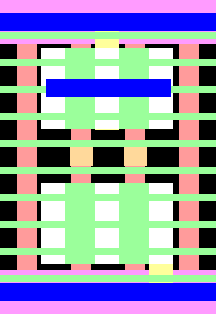
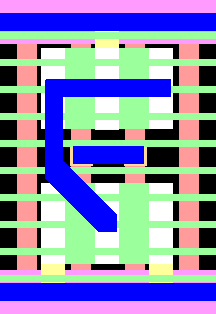
Algoritmo de roteamento funcionando, realiza os roteamentos necessário, porém alguns estão em diagonal (?) e outros apresentam erro de SIG ADDRESS - V4

Changed region(s): [[0.1944, 0.258, 0.6667, 0.7452], [0.1667, 0.8312, 0.3056, 0.9172]]

diff --git a/view.cpp b/view.cpp
@@ -235,12 +235,13 @@ int renderizeMatrix(vector<int> p_pos, vector<Net> netlist_p, vector<int> n_pos,
                 }
                 point2 temp((ligcontxcoord+(ligContWidth/2)), (ligcontycoord+(ligContHeight/2)));
                 mSignal[new_ppos[it]].instances.push_back(temp);
+                mSignal[new_ppos[it]].visited.push_back(0);
                 ligcontxcoord = ligcontxcoord + 54;
                 sxcoord = sxcoord + 25;
             } else if((global[new_ppos[it]].name != global[new_ppos[it-1]].name) && (p_pos_types[it] != p_pos_types[it-1]) && (p_pos_types[it] == ACTIVE) && (it != 0)){
-                point2 temp((sxcoord+(actWidth/2)), (sycoord+(sHeigth/2)));
-                mSignal[new_ppos[it]].instances.push_back(temp);
-                
+//                point2 temp((sxcoord+(actWidth/2)), (sycoord+(sHeigth/2)));
+//                mSignal[new_ppos[it]].instances.push_back(temp);
+//                mSignal[new_ppos[it]].visited.push_back(0);
                 if(global[new_ppos[it]].name == "VDD") {
                     cout << "teste1\n";
                     for(int it2=sxcoord;it2<sxcoord+actWidth;it2++){
@@ -255,11 +256,15 @@ int renderizeMatrix(vector<int> p_pos, vector<Net> netlist_p, vector<int> n_pos,
                             SIGNAL[it3][it2] = new_ppos[it]+1;
                         }
                     }
+                point2 temp((sxcoord+(actWidth/2)), (sycoord+(sHeigth/2)));
+                mSignal[new_ppos[it]].instances.push_back(temp);
+                mSignal[new_ppos[it]].visited.push_back(0);
                 }
                 sxcoord = sxcoord + 29;
             } else if((global[new_ppos[it]].name != global[new_ppos[it-1]].name) && (p_pos_types[it] == p_pos_types[it-1]) && (it != 0)){
-                point2 temp((sxcoord+(actWidth/2)), (sycoord+(sHeigth/2)));
-                mSignal[new_ppos[it]].instances.push_back(temp);
+//                point2 temp((sxcoord+(actWidth/2)), (sycoord+(sHeigth/2)));
+//                mSignal[new_ppos[it]].instances.push_back(temp);
+//                mSignal[new_ppos[it]].visited.push_back(0);
                 sxcoord = sxcoord+79;
                 if(global[new_ppos[it]].name == "VDD") {
                     for(int it2=sxcoord;it2<sxcoord+actWidth;it2++){
@@ -273,11 +278,15 @@ int renderizeMatrix(vector<int> p_pos, vector<Net> netlist_p, vector<int> n_pos,
                             SIGNAL[it3][it2] = new_ppos[it]+1;
                         }
                     }
+                point2 temp((sxcoord+(actWidth/2)), (sycoord+(sHeigth/2)));
+                mSignal[new_ppos[it]].instances.push_back(temp);
+                mSignal[new_ppos[it]].visited.push_back(0);
                 }
                 sxcoord = sxcoord + 29;
             } else if(it == 0){
-                point2 temp((sxcoord+(actWidth/2)), (sycoord+(sHeigth/2)));
-                mSignal[new_ppos[it]].instances.push_back(temp);
+//                point2 temp((sxcoord+(actWidth/2)), (sycoord+(sHeigth/2)));
+//                mSignal[new_ppos[it]].instances.push_back(temp);
+//                mSignal[new_ppos[it]].visited.push_back(0);
                 if(global[new_ppos[it]].name == "VDD") {
                     for(int it2=sxcoord;it2<sxcoord+actWidth;it2++){
                         for(int it3=salimcoord; it3<salimcoord+salimHeight;it3++){
@@ -290,6 +299,9 @@ int renderizeMatrix(vector<int> p_pos, vector<Net> netlist_p, vector<int> n_pos,
                             SIGNAL[it3][it2] = new_ppos[it]+1;
                         }
                     }
+                point2 temp((sxcoord+(actWidth/2)), (sycoord+(sHeigth/2)));
+                mSignal[new_ppos[it]].instances.push_back(temp);
+                mSignal[new_ppos[it]].visited.push_back(0);
                 }
                 sxcoord = sxcoord + 29;
             }
@@ -313,13 +325,18 @@ int renderizeMatrix(vector<int> p_pos, vector<Net> netlist_p, vector<int> n_pos,
                             SIGNAL[it3][it2] = new_npos[it]+1;
                         }
                     }
-                }
                 point2 temp((sxcoord+(actWidth/2)), (sycoord+(sHeigth/2)));
                 mSignal[new_npos[it]].instances.push_back(temp);
+                mSignal[new_ppos[it]].visited.push_back(0);
+                }
+//                point2 temp((sxcoord+(actWidth/2)), (sycoord+(sHeigth/2)));
+//                mSignal[new_npos[it]].instances.push_back(temp);
+//                mSignal[new_ppos[it]].visited.push_back(0);
                 sxcoord = sxcoord + 54;
             } else if((global[new_npos[it]].name != global[new_npos[it-1]].name) && (n_pos_types[it] == n_pos_types[it-1])/*&& (it != 0)*/){
-                point2 temp((sxcoord+(actWidth/2)), (sycoord+(sHeigth/2)));
-                mSignal[new_npos[it]].instances.push_back(temp);
+//                point2 temp((sxcoord+(actWidth/2)), (sycoord+(sHeigth/2)));
+//                mSignal[new_npos[it]].instances.push_back(temp);
+//                mSignal[new_ppos[it]].visited.push_back(0);
                 cout << it-1 << " " << it << "\n";
                 sxcoord = sxcoord+54;
                 if(global[new_npos[it]].name == "GND") {
@@ -334,6 +351,10 @@ int renderizeMatrix(vector<int> p_pos, vector<Net> netlist_p, vector<int> n_pos,
                             SIGNAL[it3][it2] = new_npos[it]+1;
                         }
                     }
+                point2 temp((sxcoord+(actWidth/2)), (sycoord+(sHeigth/2)));
+                mSignal[new_npos[it]].instances.push_back(temp);
+                mSignal[new_ppos[it]].visited.push_back(0);
+    
                 sxcoord = sxcoord + 54;
                 }
             }
@@ -590,149 +611,10 @@ int renderizeMatrix(vector<int> p_pos, vector<Net> netlist_p, vector<int> n_pos,
             cout << "\n";
         }   
 
+
     
     
-    
-    
-    
-    
-    
-    
-    
-    
-    
-    
-    
-    
-    
-    
-//    Mat img(height, width, CV_8UC4, Scalar(0,0,0,255));
-//    
-//
-//    
-//    if (img.empty()) 
-//    {
-//        cout << "\n Image not created. You"
-//                     " have done something wrong. \n";
-//        return -1;    // Unsuccessful.
-//    }
-//
-////    int     GCUT[height][width]; ok
-////    int     M1[height][width]; ok
-////    int     LIG[height][width]; ok
-////    int     FIN[height][width]; ok
-////    int     CGATE[height][width]; ok
-////    int     LISD[height][width]; ok
-////    int     SDT[height][width]; ok
-////    int     CACTIVE[height][width];
-////    int    SIGNAL[height][width];
-//    
-//    for(int it=0; it<height; it++){
-//        for(int it2=0; it2<width; it2++){
-//            if(CGATE[it][it2] == 1){
-//                img.at<Vec4b>(it, it2) = Vec4b(0, 0, 255, 100);                
-//            }
-//            if(GCUT[it][it2] == 1){
-//                img.at<Vec4b>(it, it2) = Vec4b(255, 0, 255, 100);                
-//            }
-//            if(LIG[it][it2] == 1){
-//                img.at<Vec4b>(it, it2) = Vec4b(0, 157, 255, 100);                
-//            }
-//            if(M1[it][it2] == 1){
-//                img.at<Vec4b>(it, it2) = Vec4b(255, 0, 0, 100);                
-//            } 
-//            if(CACTIVE[it][it2] == 1){
-//                img.at<Vec4b>(it, it2) = Vec4b(0, 255, 0, 100);                
-//            } 
-//            if(LISD[it][it2] == 1){
-//                img.at<Vec4b>(it, it2) = Vec4b(0, 255, 255, 100);                
-//            }  
-//            if(SDT[it][it2] == 1){
-//                img.at<Vec4b>(it, it2) = Vec4b(255, 255, 255, 50);                
-//            }
-//            if(FIN[it][it2] == 1){
-//                img.at<Vec4b>(it, it2) = Vec4b(0, 255, 0, 100);                
-//            }           
-//        }
-//    }
-//    
-//    vector <Mat> dst;
-//    Mat gate(height, width, CV_8UC4, Scalar(0,0,0,0));
-//    Mat gcut(height, width, CV_8UC4, Scalar(0,0,0,0));
-//    Mat lig(height, width, CV_8UC4, Scalar(0,0,0,0));
-//    Mat m1(height, width, CV_8UC4, Scalar(0,0,0,0));
-//    Mat active(height, width, CV_8UC4, Scalar(0,0,0,0));
-//    Mat lisd(height, width, CV_8UC4, Scalar(0,0,0,0));
-//    Mat sdt(height, width, CV_8UC4, Scalar(0,0,0,0));
-//    Mat cfin(height, width, CV_8UC4, Scalar(0,0,0,0));
-//    
-//    for(int it=0; it<height; it++){
-//        for(int it2=0; it2<width; it2++){
-//            if(CGATE[it][it2] == 1){
-//                gate.at<Vec4b>(it, it2) = Vec4b(0, 0, 255, 255);                
-//            }
-//            if(GCUT[it][it2] == 1){
-//                gcut.at<Vec4b>(it, it2) = Vec4b(255, 0, 255, 255);                
-//            }
-//            if(LIG[it][it2] == 1){
-//                lig.at<Vec4b>(it, it2) = Vec4b(0, 157, 255, 255);                
-//            }
-//            if(M1[it][it2] == 1){
-//                m1.at<Vec4b>(it, it2) = Vec4b(255, 0, 0,255);                
-//            } 
-//            if(CACTIVE[it][it2] == 1){
-//                active.at<Vec4b>(it, it2) = Vec4b(0, 255, 0,255);                
-//            } 
-//            if(LISD[it][it2] == 1){
-//                lisd.at<Vec4b>(it, it2) = Vec4b(0, 255, 255,255);                
-//            }  
-//            if(SDT[it][it2] == 1){
-//                sdt.at<Vec4b>(it, it2) = Vec4b(255, 255, 255,255);                
-//            }
-//            if(FIN[it][it2] == 1){
-//                cfin.at<Vec4b>(it, it2) = Vec4b(0, 255, 0,255);                
-//            }           
-//        }
-//    }
-//
-//    dst.push_back(gate);
-//    dst.push_back(gcut);
-//    dst.push_back(lig);
-//    dst.push_back(m1);
-//    dst.push_back(active);
-//    dst.push_back(lisd);    
-//    dst.push_back(sdt);
-//    dst.push_back(cfin);
-//    
-//    Mat merged(height, width, CV_8UC4, Scalar(0,0,0,0));
-//    
-//    merged = dst[0];
-//    
-//    for(Mat mat : dst){
-//        cv::addWeighted(merged, 1, mat, 0.5, 0, merged);
-//    }
-//    
-//    
-//    
-//    cv::imwrite("layout.png", img);
-//    
-//    cv::imwrite("gate.png", gate);
-//    cv::imwrite("gcut.png", gcut);
-//    cv::imwrite("lig.png", lig);
-//    cv::imwrite("m1.png", m1);
-//    cv::imwrite("active.png", active);
-//    cv::imwrite("lisd.png", lisd);
-//    cv::imwrite("sdt.png", sdt);
-//    cv::imwrite("cfin.png", cfin);
-//    
-//    cv::imwrite("merged.png", merged);
-    
-    //namedWindow("A_good_name");    
-    //imshow("A_good_name", img);
-    //waitKey(1000); //wait infinite time for a keypress
-    //destroyWindow("A_good_name"); 
-    
-    //ROTEAMENTO
+ //ROTEAMENTO
     
     int POINTS[height][width];
     
@@ -747,38 +629,59 @@ int renderizeMatrix(vector<int> p_pos, vector<Net> netlist_p, vector<int> n_pos,
     
 //    //select first route
     int temp_distance=0, first=0, distance, s, f, o;
-    
-    
-    for(int it=0; it<global.size();it++){
+    int still_routing=1;
+    while(still_routing){
+        
+        for(int it=0; it<global.size();it++){
         if(mSignal[it].instances.size() > 1){
+            first=0;
             for(int it2=0; it2<mSignal[it].instances.size();it2++){
                 for(int it3=0; it3<mSignal[it].instances.size();it3++){
                     temp_distance = pow(abs(mSignal[it].instances[it2].s.first - mSignal[it].instances[it3].s.first),2)+pow(abs(mSignal[it].instances[it2].s.second - mSignal[it].instances[it3].s.second),2);
-                    cout << temp_distance << "\n";
-                    if((first == 0) && (temp_distance != 0)){
+                    //cout << temp_distance << "\n";
+                    //cout << mSignal[it].visited[it2] << "\n";
+                    //cout << mSignal[it].visited[it3] << "\n";
+                    if((first == 0) && (temp_distance != 0) && ((mSignal[it].visited[it2] != 1) || (mSignal[it].visited[it3] != 1))){
                         distance = temp_distance;
+                        cout << "first: " << temp_distance << "\n";
                         first = 1;
                         s = it2;
                         f = it3;
                         o = it;
-                    } else if ((temp_distance < distance) && (temp_distance != 0)){
+                    } else if ((temp_distance < distance) && (temp_distance != 0) && ((mSignal[it].visited[it2] != 1) || (mSignal[it].visited[it3] != 1))){
                         distance = temp_distance;
+                        cout << "non-first: " << temp_distance << "\n";
                         s = it2;
                         f = it3;
                         o = it;
-                    }
+                    } /*else if (temp_distance == 0){
+                        //mSignal[it].visited[it2] = 1;
+                        //mSignal[it].visited[it3] = 1;
+                    }*/
                 }
             }
         }
     }
-    
+        still_routing = 0;
+        for(int it=0; it<global.size();it++){
+        if(mSignal[it].instances.size() > 1){
+            for(int it2=0; it2<mSignal[it].instances.size();it2++){
+                    if(mSignal[it].visited[it2] == 0){
+                        still_routing = 1;
+                    }
+            }
+        }
+    }    
+        
+        
     
 
-    
-    
+    mSignal[o].visited[s] = 1;
+    mSignal[o].visited[f] = 1;
+    //}
 
     
-    int stepCost, nc, dist;
+
     point neighbour;
     point neighbours[8];
     neighbours[0] = point( -1, -1 ); 
@@ -789,12 +692,7 @@ int renderizeMatrix(vector<int> p_pos, vector<Net> netlist_p, vector<int> n_pos,
     neighbours[5] = point( -1,  0 );
     neighbours[6] = point(  0,  1 ); 
     neighbours[7] = point(  1,  0 );
-    
-    bool resultSearch;
-    bool resultFillOpen;
-    
-    //node start.pos(mSignal[o].instances[s].s.first, mSignal[o].instances[s].s.second);
-    //node finish.pos(mSignal[o].instances[f].s.first, mSignal[o].instances[f].s.second);
+
     node start, finish;
     start.pos.x = mSignal[o].instances[s].s.first;
     start.pos.y = mSignal[o].instances[s].s.second;
@@ -932,7 +830,7 @@ int renderizeMatrix(vector<int> p_pos, vector<Net> netlist_p, vector<int> n_pos,
             }
         }
     }
-    
+    }
     Mat img(height, width, CV_8UC4, Scalar(0,0,0,255));
     
 

diff --git a/view.h b/view.h
@@ -39,6 +39,7 @@ struct point2{
 
 struct signal{
     vector <point2> instances;
+    vector <int> visited;
 };
 #endif /* VIEW_H */
 
